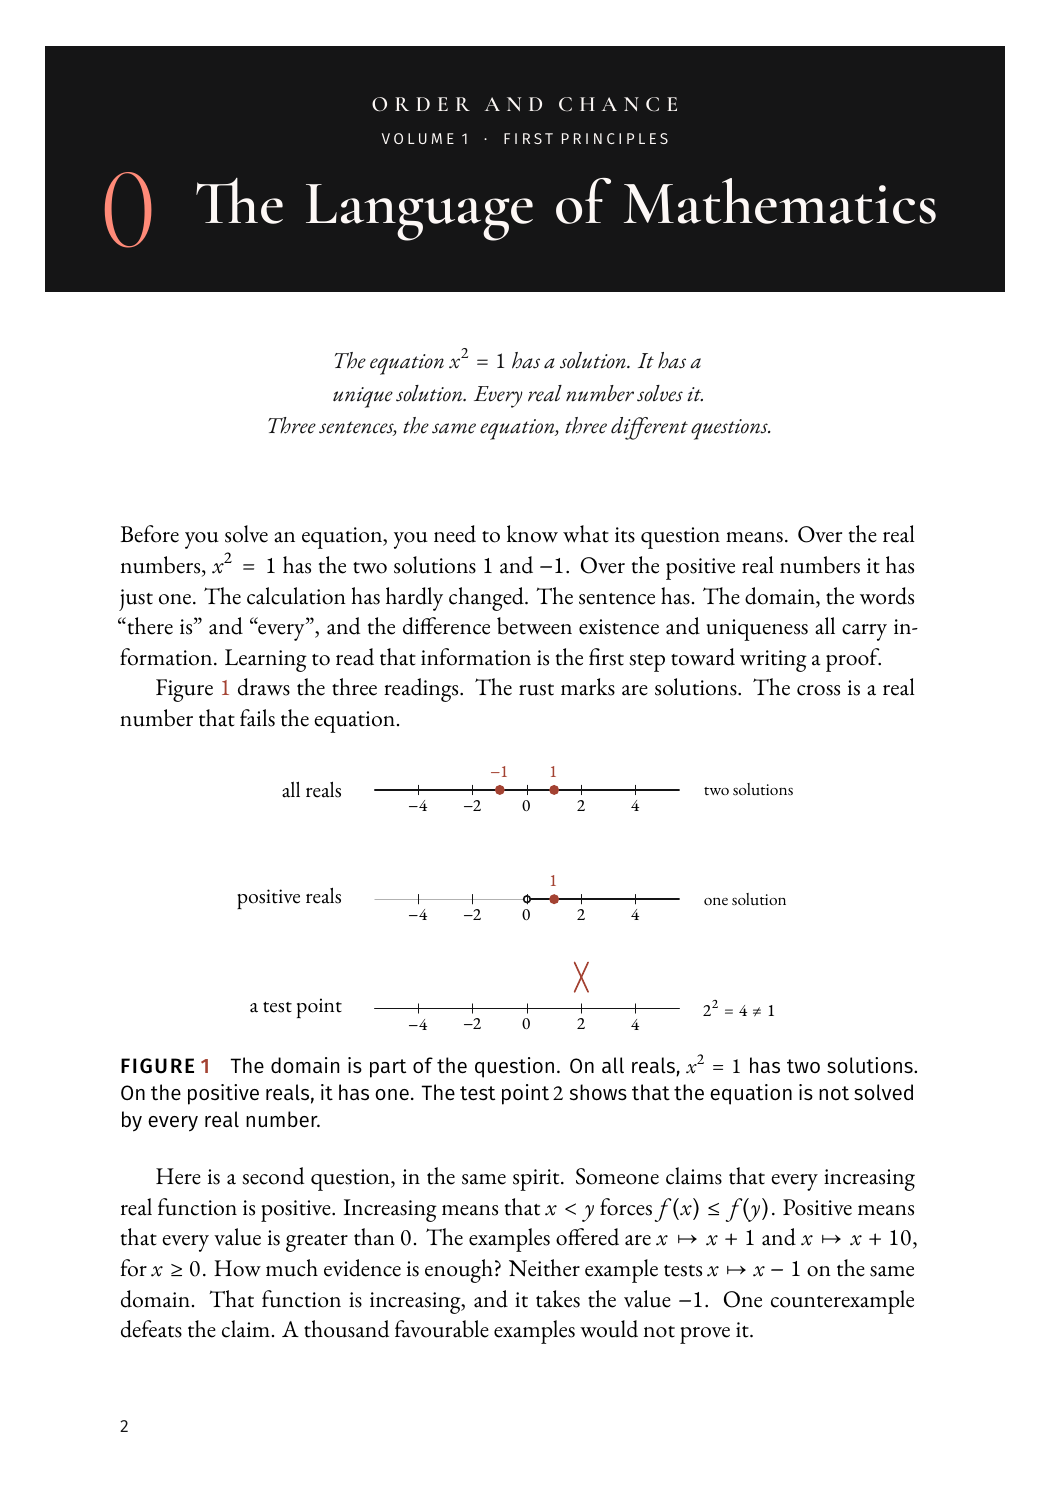
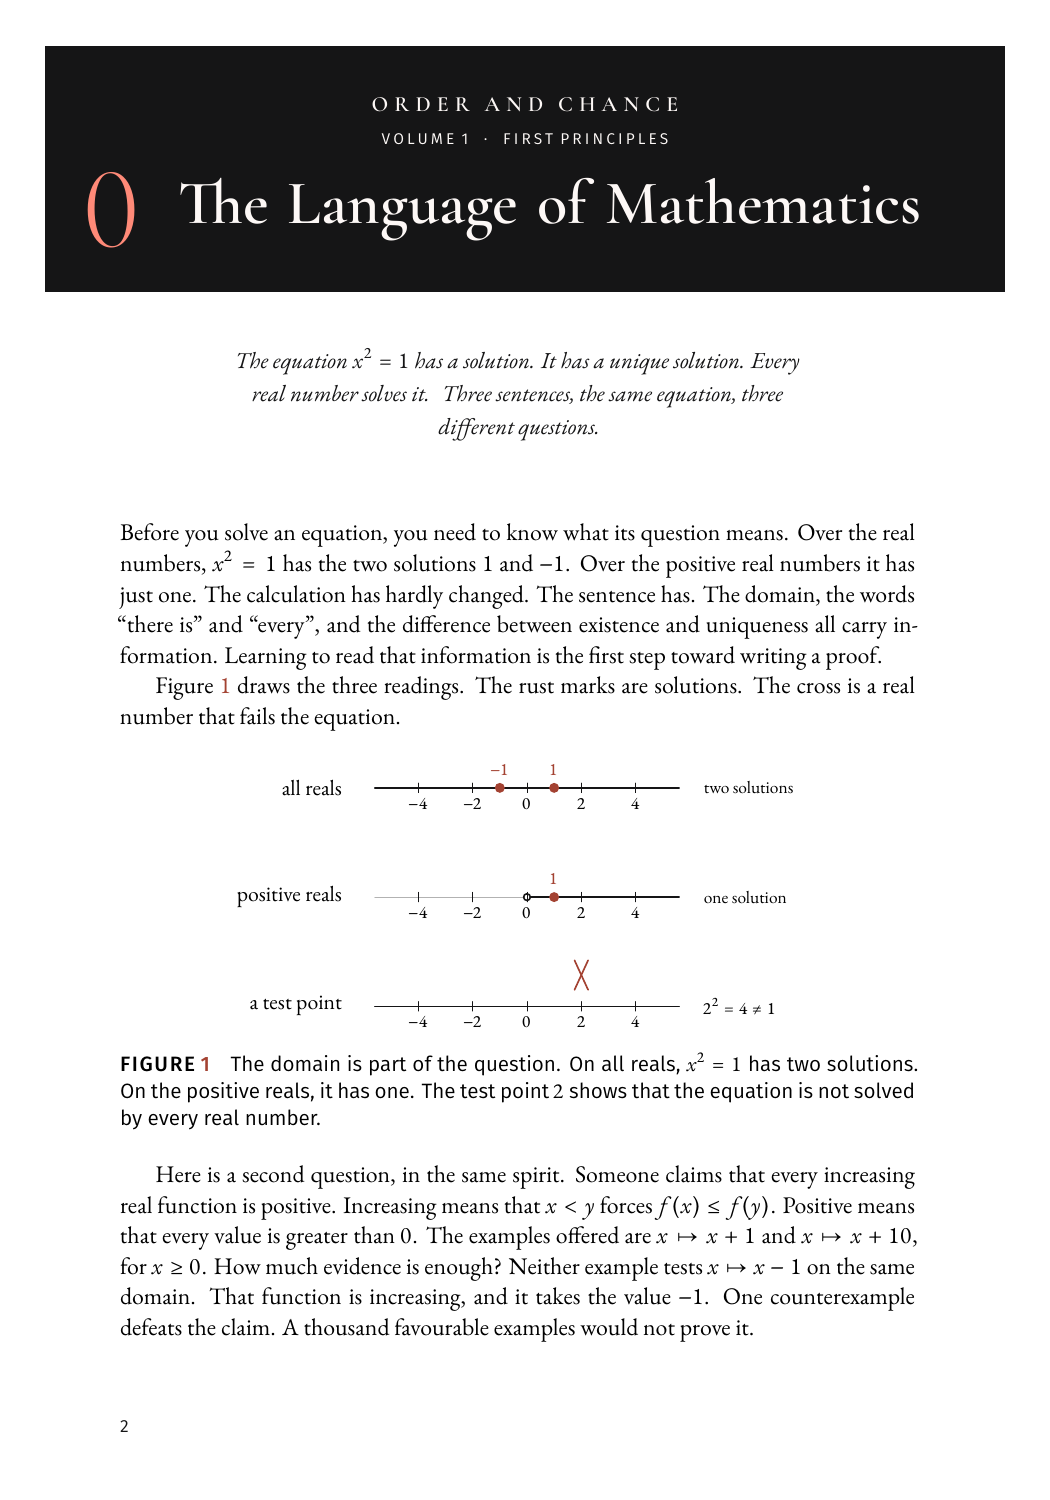
Balance the opening italic and fit long titles on two lines.
The italic stays 10.5 pt and centred, on 75 percent of the measure. An author's line breaks are kept only when each piece fits; otherwise the whole paragraph flows as one centred block. A title that would run past two lines drops from 30/34 pt to 26/30 pt, so the Volume 8 unitary-matrices title stays on two lines. The appendix label is as wide as the word APPENDIX.

diff --git a/tools/reader.css b/tools/reader.css
@@ -138,7 +138,7 @@ h1.oc-chapter > .header-section-number::after, h1.oc-part > .header-section-numb
 h1.oc-chapter::after, h1.oc-part::after { width: 48px; margin-top: 10px; }
 .oc-opener { background: none; color: var(--ink); margin: 0 0 1.8em; padding: 0; }
 .oc-epigraph { font-style: italic; font-size: .92em; line-height: 1.4; color: var(--ink);
-  text-align: center; max-width: 68%; margin: 1.5em auto 1.7em; }
+  text-align: center; max-width: 75%; margin: 1.5em auto 1.7em; }
 .oc-epigraph p { margin: .35em 0; }
 .oc-motif { display: none; }
 

diff --git a/tools/epub.css b/tools/epub.css
@@ -70,7 +70,7 @@ h1.oc-chapter > .header-section-number::before { content: "Chapter\00A0";
 h1.oc-chapter > .header-section-number::after, h1.oc-part > .header-section-number::after { content: none; }
 .oc-opener { background-color: transparent; color: inherit; margin: 0 0 1.6em; padding: 0; }
 .oc-epigraph { font-style: italic; font-size: .92em; line-height: 1.4; text-align: center;
-  max-width: 68%; margin: 1.4em auto 1.6em; }
+  max-width: 75%; margin: 1.4em auto 1.6em; }
 .oc-epigraph p { margin: .35em 0; }
 .oc-motif { display: none; }
 

diff --git a/common/chapter-opener.tex b/common/chapter-opener.tex
@@ -6,15 +6,16 @@
 %
 % Chapter opener: one compact band at the top of the chapter's first page. The band
 % holds the masthead, the volume line, the coral numeral and the cream chapter title.
-% A coral rule and the epigraph sit on the paper directly under the band, and the
-% prose follows on the same page. There is no second heading. The first page uses the
+% The opening italic sits on the paper directly under the band, and the prose follows
+% on the same page. There is no second heading. The first page uses the
 % plain style (folio at the foot, no running head).
 % Numbered chapters start on the next page, recto or verso: the class option is
 % openany, and a blank is not inserted to force a side. A part's first chapter
 % therefore still sits on the back of the part page.
 %
 % Epigraph: the chapter's opening \begin{center}\itshape ... \end{center} (directly after
-% \chapter{...} and its optional \label) is set under the rule; the source is unchanged.
+% \chapter{...} and its optional \label) is the centred italic under the band; the source
+% is unchanged.
 %
 % \chaptermotif is accepted and ignored. The print openers do not draw it, and they
 % do not input cover-motif.tex.
@@ -34,6 +35,7 @@
 \newlength{\oc@lineW}
 \newsavebox{\oc@ch@lock}
 \newsavebox{\oc@ch@num}
+\newsavebox{\oc@ch@app}
 % How far titlesec's strut line and the 0 pt before-skip push the band down
 % past \oc@bandDrop. Measured on a 7 x 10 page (see the comment on \oc@flow@band).
 \newlength{\oc@bandRaise}\setlength{\oc@bandRaise}{2.05in}
@@ -79,14 +81,14 @@
       \fill[ocBlack] (0,0) rectangle (\oc@bandW,\oc@bandH);
       \oc@band@draw
     \end{tikzpicture}}}
-% Opening italic: 10.5 pt on 14.7 pt, centred on 80 percent of the measure.
-% An author's \\ is kept when that piece fits on one line. A piece that is
-% wider is broken into lines of about the same length, still centred.
+% Opening italic: 10.5 pt on 14.7 pt, centred on 75 percent of the measure.
+% Keep an author's \\ only when every piece fits on one line. Otherwise set the
+% whole paragraph as one centred block, so no line is wider than the measure.
 \newcommand{\oc@option@epi}{%
   \ifx\oc@ch@epi\@empty\else
     \par\vspace{26pt}%
     \begingroup
-      \setlength{\oc@epiW}{0.80\linewidth}%
+      \setlength{\oc@epiW}{0.75\linewidth}%
       \parindent=0pt
       \centering
       \itshape\fontsize{10.5}{14.7}\selectfont\color{ocBlack}%
@@ -95,32 +97,51 @@
   \fi}
 \ExplSyntaxOn
 \seq_new:N \l__oc_epi_seq
+\bool_new:N \l__oc_epi_fit_bool
+\tl_new:N \l__oc_epi_tl
 \cs_new_protected:Npn \oc@epi@split #1
   {
     \seq_set_split:Nnn \l__oc_epi_seq { \\ } { #1 }
+    \bool_set_true:N \l__oc_epi_fit_bool
     \seq_map_inline:Nn \l__oc_epi_seq
-      { \tl_if_blank:nF { ##1 } { \oc@epi@chunk { ##1 } } }
+      {
+        \tl_if_blank:nF { ##1 }
+          {
+            \settowidth {\dimen@} { \ignorespaces ##1 \unskip }
+            \dim_compare:nT { \dimen@ > \oc@epiW }
+              { \bool_set_false:N \l__oc_epi_fit_bool }
+          }
+      }
+    \bool_if:NTF \l__oc_epi_fit_bool
+      {
+        \seq_map_inline:Nn \l__oc_epi_seq
+          {
+            \tl_if_blank:nF { ##1 }
+              { \par \noindent \ignorespaces ##1 \unskip \par }
+          }
+      }
+      {
+        \tl_set:Nn \l__oc_epi_tl { #1 }
+        \tl_replace_all:Nnn \l__oc_epi_tl { \\ } { ~ }
+        \par \noindent
+        \begin{minipage}{\oc@epiW}
+          \centering \parindent=0pt \tolerance=9999 \emergencystretch=3em
+          \hyphenpenalty=200 \exhyphenpenalty=200
+          \l__oc_epi_tl \par
+        \end{minipage}
+        \par
+      }
   }
 \ExplSyntaxOff
-\newcommand{\oc@epi@chunk}[1]{%
-  \par\noindent
-  \settowidth{\dimen@}{\ignorespaces #1\unskip}%
-  \ifdim\dimen@>\oc@epiW
-    \@tempcnta=\@ne
-    \@tempdima=\dimen@
-    \loop\ifdim\@tempdima>\oc@epiW
-      \advance\@tempdima-\oc@epiW
-      \advance\@tempcnta\@ne
-    \repeat
-    \setlength{\oc@lineW}{\dimexpr(\dimen@+\@tempcnta em)/\@tempcnta\relax}%
-    \ifdim\oc@lineW>\oc@epiW\setlength{\oc@lineW}{\oc@epiW}\fi
-    \begin{minipage}{\oc@lineW}
-      \centering\parindent=0pt\emergencystretch=2em\hyphenpenalty=4000
-      \ignorespaces #1\unskip\par
-    \end{minipage}\par
-  \else
-    \ignorespaces #1\unskip\par
-  \fi}
+\newcommand{\oc@title@set}[3]{% size, leading, text
+  \setbox\oc@ch@lock=\vbox{%
+    \topskip=0pt\parskip=0pt\parindent=0pt
+    \hsize=\oc@titleW
+    \hyphenpenalty=10000\exhyphenpenalty=10000
+    \raggedright\everypar{}%
+    {\ocDisplay\linespread{1}\fontsize{#1}{#2}\selectfont\color{ocCream}%
+      \everymath{\color{ocCream}}\everydisplay{\color{ocCream}}%
+      \ocBreakDashes{#3}\par}}}
 % A. Primary. A short band, about 1.6–2.0 in (at most about 2.4 in when the
 % title needs three lines). The series line is small and centred. The coral
 % numeral sits to the left of the cream title; that pair is centred as one
@@ -130,32 +151,26 @@
   \sbox{\oc@ch@num}{{\color{ocCoral}\ocNumeral\fontsize{56}{56}\selectfont\thechapter}}%
   \edef\oc@tmp{\chaptertitlename}\edef\oc@app{\appendixname}%
   \ifx\oc@tmp\oc@app
-    \setbox\oc@ch@num=\vbox{%
-      \hsize=\wd\oc@ch@num
-      \centering\parindent=0pt\topskip=0pt
-      {\ocMed\fontsize{7.5}{9}\selectfont\color{ocCream}\ocLab{\appendixname}\par}%
-      \vspace{2pt}%
-      \usebox\oc@ch@num}%
-  \fi
-  \setlength{\oc@titleW}{\dimexpr\oc@bandW-0.55in-\wd\oc@ch@num-0.25in\relax}%
-  \settowidth{\dimen@}{{\ocDisplay\fontsize{30}{34}\selectfont\ocBreakDashes{#1}}}%
-  \ifdim\dimen@<\oc@titleW \setlength{\oc@titleW}{\dimexpr\dimen@+6pt\relax}\fi
-  \ifdim\oc@titleW<1.6in \setlength{\oc@titleW}{1.6in}\fi
-  \setbox\oc@ch@lock=\vbox{%
-    \topskip=0pt\parskip=0pt\parindent=0pt
-    \hsize=\oc@titleW
-    \hyphenpenalty=10000\exhyphenpenalty=10000
-    \raggedright\everypar{}%
-    {\ocDisplay\linespread{1}\fontsize{30}{34}\selectfont\color{ocCream}%
-      \everymath{\color{ocCream}}\everydisplay{\color{ocCream}}%
-      \ocBreakDashes{#1}\par}}%
+  \sbox{\oc@ch@app}{{\ocMed\fontsize{7.5}{9}\selectfont\color{ocCream}\ocLab{\appendixname}}}%
+  \setbox2=\vbox{%
+    \hsize=\wd\oc@ch@num
+    \ifdim\wd\oc@ch@app>\hsize \hsize=\wd\oc@ch@app\fi
+    \centering\parindent=0pt\topskip=0pt
+    \noindent\usebox{\oc@ch@app}\par
+    \vspace{2pt}%
+    \hbox to \hsize{\hfil\usebox\oc@ch@num\hfil}}%
+  \setbox\oc@ch@num=\box2
+\fi
+  \setlength{\oc@titleW}{\dimexpr\oc@bandW-0.50in-\wd\oc@ch@num-0.25in\relax}%
+  \oc@title@set{30}{34}{#1}%
+  \ifdim\ht\oc@ch@lock>78pt \oc@title@set{26}{30}{#1}\fi
   \setbox\oc@ch@lock=\hbox{%
     $\vcenter{\hbox{\usebox\oc@ch@num}}$%
     \hspace{0.25in}%
     $\vcenter{\hbox{\usebox\oc@ch@lock}}$}%
   \setbox\oc@ch@lock=\vbox{%
     \topskip=0pt\parskip=0pt\parindent=0pt
-    \hsize=\dimexpr\oc@bandW-0.60in\relax
+    \hsize=\dimexpr\oc@bandW-0.50in\relax
     \centering
     {\ocDisplay\fontsize{10.5}{13}\selectfont\color{ocCream}\ocCaps[28]{Order and Chance}\par}%
     \vspace{3pt}%
@@ -345,7 +360,7 @@
 % Reads \chapter[short]{title}, then any mix of \label and \chaptermark, then an
 % opening \begin{center}\itshape. \chaptermark is kept and replayed after the
 % real \chapter, so the short running head survives and the epigraph still
-% uses the shared bar. Two chapters put \chaptermark before the epigraph
+% uses the shared centred italic. Two chapters put \chaptermark before the epigraph
 % (Volume 8, the unitary-matrices chapter, and Volume 12, log-correlated fields).
 \def\oc@centername{center}
 \def\oc@skip#1{\def\oc@skip@k{#1}\oc@skip@loop}

diff --git a/docs/design/interior.md b/docs/design/interior.md
@@ -28,7 +28,7 @@ The manuscripts (`volume*/chapters`) need no markup for any of it.
 |---|---|---|
 | Body text, proofs, notes | EB Garamond (Regular, Italic, SemiBold, SemiBold Italic) | 11.5 pt on 14.75 pt (11 pt class size, `Scale=1.05`, `\linespread{1.085}`), lining figures |
 | Mathematics | Garamond-Math (stylistic sets 1, 2) | same scale as the text |
-| Headings, titles, the opener numeral | Cormorant Garamond SemiBold / SemiBold Italic / Light | chapter title in the band 26/30 pt cream (unnumbered chapters 22/26), section 18/21, subsection 14/17; opener numeral 64 pt Light |
+| Headings, titles, the opener numeral | Cormorant Garamond SemiBold / SemiBold Italic / Light | chapter title in the band 30/34 pt cream (26/30 pt when a title would run past two lines; unnumbered chapters 22/26), section 18/21, subsection 14/17; opener numeral 56 pt Light |
 | Labels, running heads, captions, folios | Fira Sans Book / Medium (+ italics) | labels 8.2 pt capitals, 8% tracking |
 | Code | DejaVu Sans Mono | |
 
@@ -62,11 +62,11 @@ the running heads.
 The opener is a compact block at the top of that page:
 
 - a charcoal band, held 0.30 in inside the trim. The masthead and volume line are
-  small and centred at the top. The coral numeral is centred above the centred
-  cream Cormorant title. There is no `CHAPTER n` label. An appendix adds a small
-  `APPENDIX` above the letter. There is no rule;
+  small and centred at the top. The coral numeral sits to the left of the cream
+  Cormorant title, and that pair is centred as one group. There is no `CHAPTER n`
+  label. An appendix adds a small `APPENDIX` above the letter. There is no rule;
 - under the band, on the white paper, the opening italic is 10.5 pt on 14.7 pt,
-  centred on 68 percent of the measure, with space above and below and no bar.
+  centred on 75 percent of the measure, with space above and below and no bar.
 
 The body follows the epigraph. There is no second heading on the next page. Unnumbered
 chapters (preface, field guide, About the Cover, solutions, index, bibliography) have

diff --git a/docs/DESIGN.md b/docs/DESIGN.md
@@ -2,9 +2,9 @@
 
 Numbered chapters no longer spend a page on the band alone. `common/chapter-opener.tex`
 draws a charcoal band 0.30 in inside the trim. The masthead and volume line are
-centred at the top. The coral numeral is centred above the centred cream title.
+centred at the top. The coral numeral sits to the left of the cream title, and that pair is centred as one group.
 There is no chapter label and no rule; an appendix adds a small `APPENDIX` above
-the letter. The opening italic is 10.5 pt, centred on 68 percent of the measure,
+the letter. The opening italic is 10.5 pt, centred on 75 percent of the measure,
 with no bar. The prose starts on that same page, and the next page does not repeat
 the heading. The first page is plain: folio at the foot, no running head.
 Chapters still start on a new page, on whichever side comes next, so a part page is
